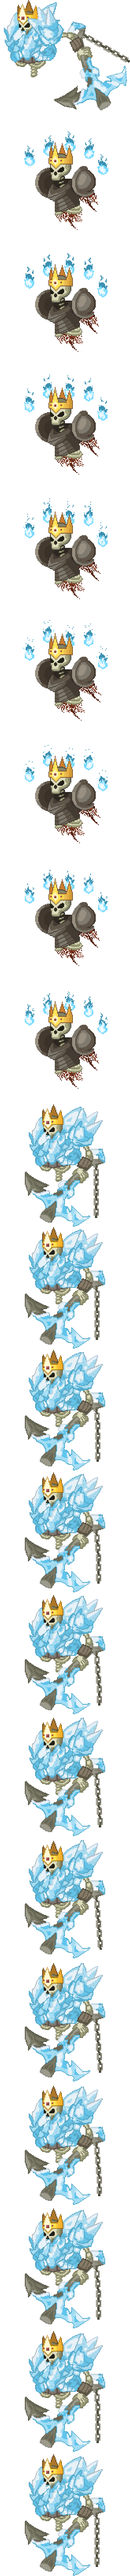
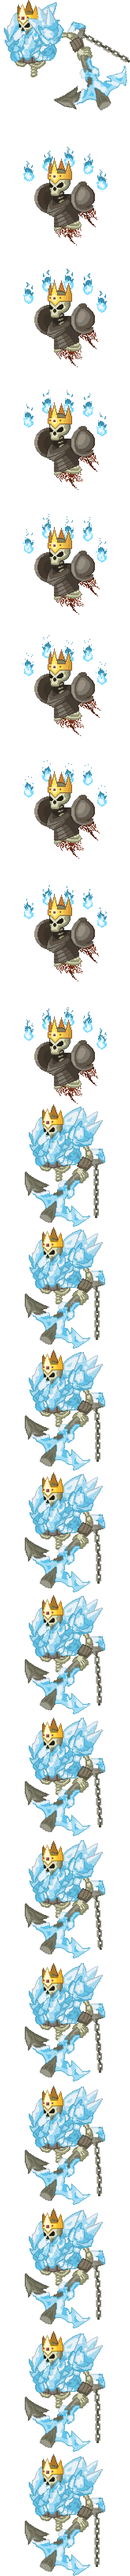
Updated ReadMe and Description. Updated Boss art... Again.

Changed region(s): [[0.1818, 0.0312, 0.8182, 0.4373]]

diff --git a/NPCs/Rognir/RognirBoss.cs b/NPCs/Rognir/RognirBoss.cs
@@ -99,7 +99,7 @@ namespace Rognir.NPCs.Rognir
 			npc.damage = 32;
 			npc.defense = 10;
 			npc.knockBackResist = 0f;
-			npc.width = 198;
+			npc.width = 204;
 			npc.height = 310;
 			npc.value = Item.buyPrice(0, 20, 0, 0);
 			npc.npcSlots = 15f;
@@ -562,8 +562,8 @@ namespace Rognir.NPCs.Rognir
 			{
 				anchorID = NPC.NewNPC((int)npc.Center.X, (int)npc.Center.Y, NPCType<RognirBossAnchor>(), 0, npc.whoAmI);
 				music = mod.GetSoundSlot(SoundType.Music, "Sounds/Music/RognirStage2");
-				npc.height = 191;
-				npc.width = 168;
+				npc.height = 222;
+				npc.width = 156;
 			}
 
 			spinTimer = 60;				// Start spinning

diff --git a/README.md b/README.md
@@ -1,4 +1,4 @@
-=== The Frozen King v1.0.0 ===
+#=== The Frozen King v1.0.0 ===
 Thanks for downloading our mod!
 You can install the mod by dropping "Rognir.tmod" in "Documents\My Games\Terraria\ModLoader\Mods"
 or via TmodLoader: https://forums.terraria.org/index.php?threads/1-3-tmodloader-a-modding-api.23726/
